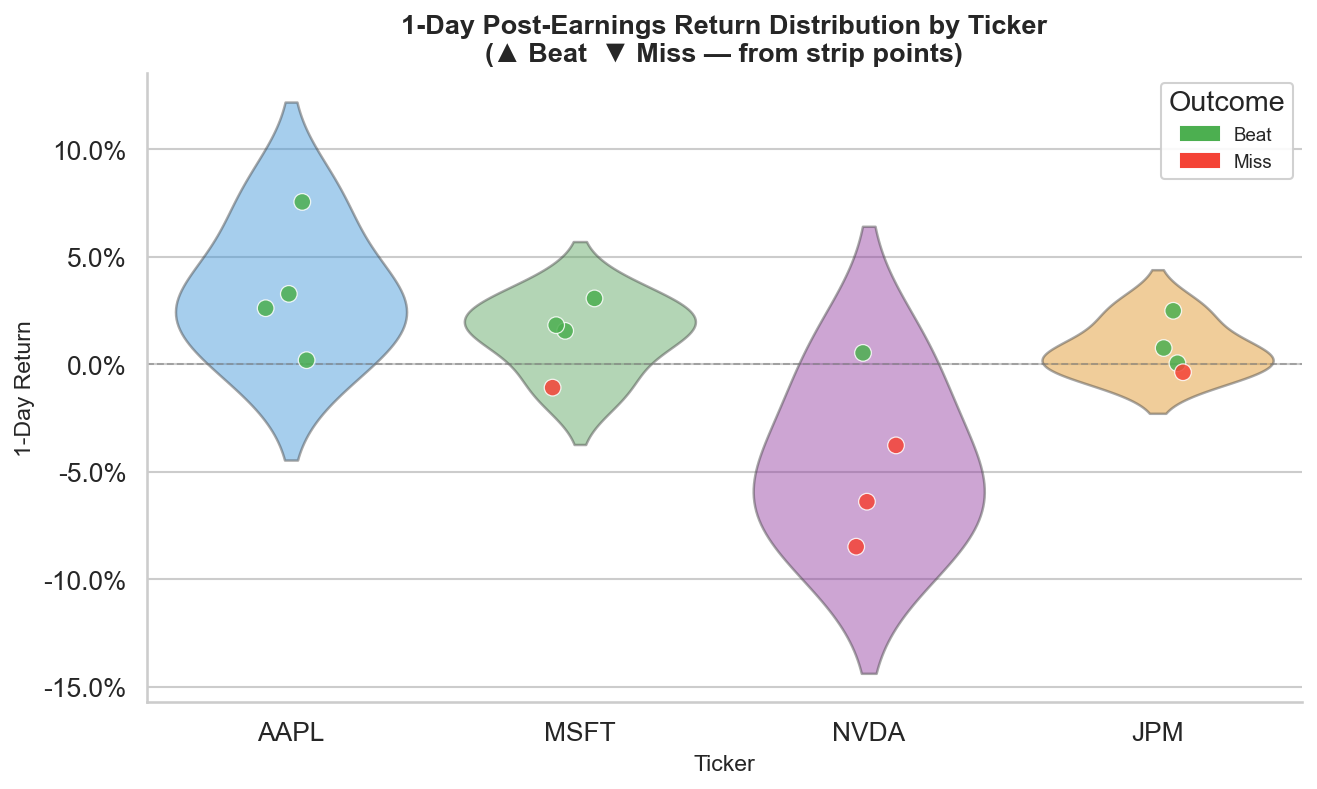
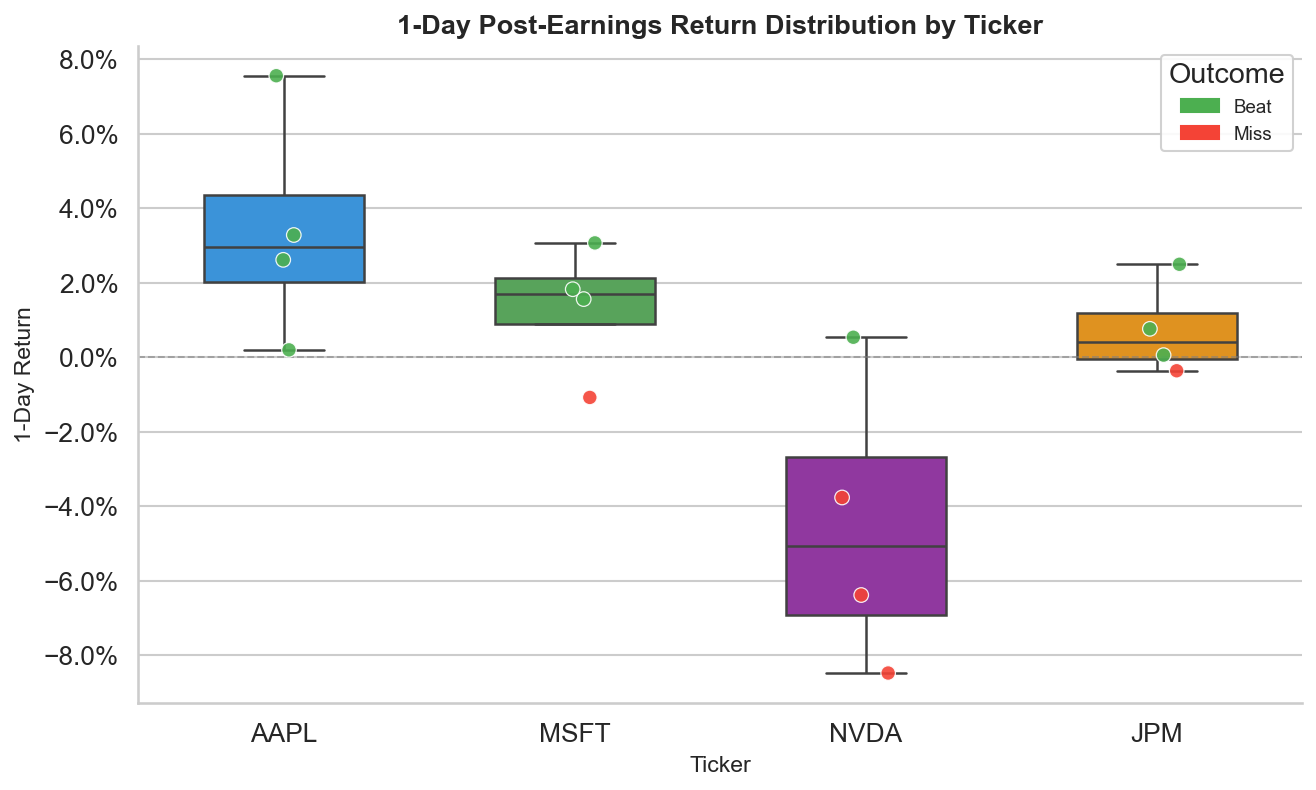
Fix visualization script import & seaborn warning; regenerate figure 5.

diff --git a/04_visualization.py b/04_visualization.py
@@ -15,6 +15,7 @@ Visualization approach (per Lecture 15 notes)
 import os
 import matplotlib.pyplot as plt
 import matplotlib.patches as mpatches
+from matplotlib.ticker import PercentFormatter
 import numpy as np
 import pandas as pd
 import seaborn as sns
@@ -339,12 +340,17 @@ sns.boxplot(
     data=fig5_df,
     x="ticker",
     y="return_1d",
+    hue="ticker",
     palette=PALETTE,
+    dodge=False,
     width=0.55,
     fliersize=0,
     linewidth=1.2,
     ax=ax,
 )
+# Seaborn legend
+if ax.get_legend() is not None:
+    ax.get_legend().remove()
 
 sns.stripplot(
     data=fig5_df,
